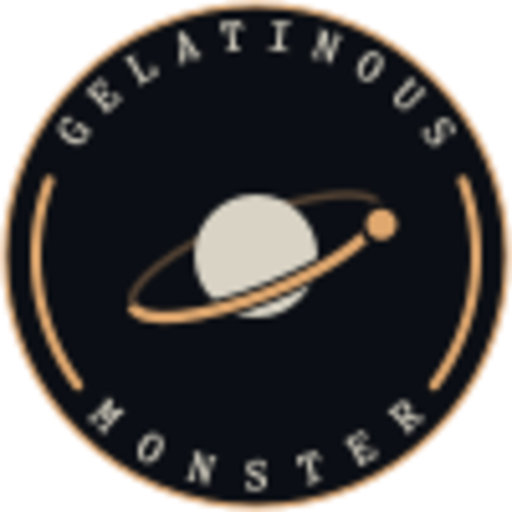
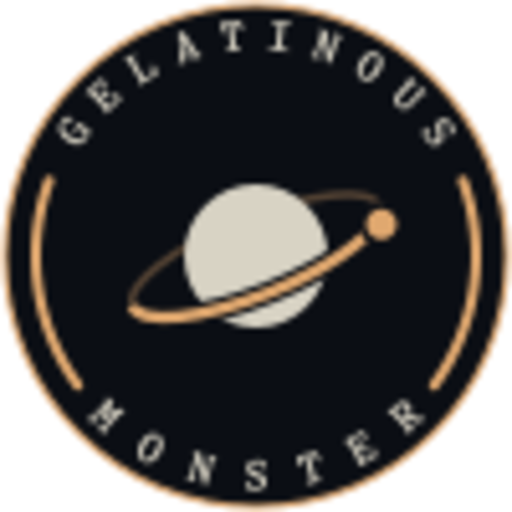
Reseat the ears and whiskers, and grow the planet (#1527)
The Stray tag was drawn for the previous mark, where the middle of the disc
was flat monogram text sitting on a knockout. A horizontal line through the
centre read fine there. The new mark puts the ring in exactly that band, so
the whiskers ran straight through it and the two fought.

Whiskers now sit below the ring, where a cat's actually are, and they no
longer cross anything. Ears straddle the rim and break the silhouette
instead of tucking inside it — that is what makes them read as ears rather
than as small triangles pasted on the disc. They are also set apart rather
than meeting at the crown, because meeting there reads as a bow tie once
the mark is down at its 44px header size. Their tips run above the viewBox
deliberately; .brand-mark already allows overflow.

The body grows from r12 to r14. It was legible but timid against the ring,
and a larger body is also the cheapest legibility win at favicon sizes,
where the filled disc is the only thing carrying contrast. The ink underlay
on the near arc goes to 4.4 to keep the separation proportionate.

Rasters regenerated from the same definition, so header, favicon and forum
artwork stay in step.

Claude-Session: https://claude.ai/code/session_01NgnVtfMc6zzQWR2HQb9JGZ

Changed region(s): [[0.3438, 0.3438, 0.6562, 0.6562]]

diff --git a/web/templates/website/_menu_iframe.html b/web/templates/website/_menu_iframe.html
@@ -23,31 +23,35 @@ Removes the Forum link to prevent navigation loops and double headers.
           <g transform="rotate(-22)">
             <ellipse class="ring" rx="26" ry="7.6" fill="none" stroke-width="1.5" stroke-opacity="0.34"/>
           </g>
-          <circle class="body" r="12"/>
+          <circle class="body" r="14"/>
           <g transform="rotate(-22)" clip-path="url(#gm-near-if)">
-            <ellipse class="knock-stroke" rx="26" ry="7.6" fill="none" stroke-width="4.0"/>
+            <ellipse class="knock-stroke" rx="26" ry="7.6" fill="none" stroke-width="4.4"/>
             <ellipse class="ring" rx="26" ry="7.6" fill="none" stroke-width="2.3"/>
           </g>
           <circle class="knock" cx="24.5" cy="-6.2" r="4.4"/>
           <circle class="node" cx="24.5" cy="-6.2" r="3.0"/>
         </g>
         <g class="tag">
-          <!-- ears: uneven on purpose, and overlapping the ring rather than
-               tucked behind it — sprayed ON the sign, not drawn into it -->
-          <path d="M29 17 L34 2 L45 11 Z"/>
-          <path d="M71 16 L67 1 L56 10 Z"/>
-          <!-- whiskers, crossing the ring on both sides -->
-          <path d="M27 55 L5 50"/>
-          <path d="M26 60 L4 62"/>
-          <path d="M28 65 L8 72"/>
-          <path d="M73 55 L95 51"/>
-          <path d="M74 60 L96 62"/>
-          <path d="M72 65 L92 73"/>
+          <!-- Ears straddle the rim and break the silhouette — sprayed ON the
+               sign, not drawn into it. They sit apart rather than meeting at
+               the crown, which at 44px otherwise reads as a bow tie. The tips
+               run above the viewBox on purpose; .brand-mark allows overflow. -->
+          <path d="M 19,21 L 26,-8 L 42,6 Z"/>
+          <path d="M 81,20 L 75,-9 L 59,5 Z"/>
+          <!-- Whiskers sit BELOW the ring. On the old monogram mark they could
+               cross the middle harmlessly; the ring now occupies that band and
+               they fought it. -->
+          <path d="M 33,70 L 6,65"/>
+          <path d="M 33,75 L 4,79"/>
+          <path d="M 35,79 L 11,90"/>
+          <path d="M 67,70 L 94,65"/>
+          <path d="M 67,75 L 96,79"/>
+          <path d="M 65,79 L 89,90"/>
           <!-- a drip off the left ear, and overspray -->
-          <path class="drip" d="M33 4 L33 12"/>
-          <circle class="spatter" cx="26" cy="8" r="1.3"/>
-          <circle class="spatter" cx="80" cy="15" r="1"/>
-          <circle class="spatter" cx="12" cy="57" r="0.9"/>
+          <path class="drip" d="M 24,-3 L 24,6"/>
+          <circle class="spatter" cx="15" cy="3" r="1.5"/>
+          <circle class="spatter" cx="87" cy="-3" r="1.2"/>
+          <circle class="spatter" cx="8" cy="70" r="1.1"/>
         </g>
       </svg>
       <div class="media-body">

diff --git a/web/templates/website/_menu.html b/web/templates/website/_menu.html
@@ -25,31 +25,35 @@ folder and edit it to add/remove links to the menu.
           <g transform="rotate(-22)">
             <ellipse class="ring" rx="26" ry="7.6" fill="none" stroke-width="1.5" stroke-opacity="0.34"/>
           </g>
-          <circle class="body" r="12"/>
+          <circle class="body" r="14"/>
           <g transform="rotate(-22)" clip-path="url(#gm-near)">
-            <ellipse class="knock-stroke" rx="26" ry="7.6" fill="none" stroke-width="4.0"/>
+            <ellipse class="knock-stroke" rx="26" ry="7.6" fill="none" stroke-width="4.4"/>
             <ellipse class="ring" rx="26" ry="7.6" fill="none" stroke-width="2.3"/>
           </g>
           <circle class="knock" cx="24.5" cy="-6.2" r="4.4"/>
           <circle class="node" cx="24.5" cy="-6.2" r="3.0"/>
         </g>
         <g class="tag">
-          <!-- ears: uneven on purpose, and overlapping the ring rather than
-               tucked behind it — sprayed ON the sign, not drawn into it -->
-          <path d="M29 17 L34 2 L45 11 Z"/>
-          <path d="M71 16 L67 1 L56 10 Z"/>
-          <!-- whiskers, crossing the ring on both sides -->
-          <path d="M27 55 L5 50"/>
-          <path d="M26 60 L4 62"/>
-          <path d="M28 65 L8 72"/>
-          <path d="M73 55 L95 51"/>
-          <path d="M74 60 L96 62"/>
-          <path d="M72 65 L92 73"/>
+          <!-- Ears straddle the rim and break the silhouette — sprayed ON the
+               sign, not drawn into it. They sit apart rather than meeting at
+               the crown, which at 44px otherwise reads as a bow tie. The tips
+               run above the viewBox on purpose; .brand-mark allows overflow. -->
+          <path d="M 19,21 L 26,-8 L 42,6 Z"/>
+          <path d="M 81,20 L 75,-9 L 59,5 Z"/>
+          <!-- Whiskers sit BELOW the ring. On the old monogram mark they could
+               cross the middle harmlessly; the ring now occupies that band and
+               they fought it. -->
+          <path d="M 33,70 L 6,65"/>
+          <path d="M 33,75 L 4,79"/>
+          <path d="M 35,79 L 11,90"/>
+          <path d="M 67,70 L 94,65"/>
+          <path d="M 67,75 L 96,79"/>
+          <path d="M 65,79 L 89,90"/>
           <!-- a drip off the left ear, and overspray -->
-          <path class="drip" d="M33 4 L33 12"/>
-          <circle class="spatter" cx="26" cy="8" r="1.3"/>
-          <circle class="spatter" cx="80" cy="15" r="1"/>
-          <circle class="spatter" cx="12" cy="57" r="0.9"/>
+          <path class="drip" d="M 24,-3 L 24,6"/>
+          <circle class="spatter" cx="15" cy="3" r="1.5"/>
+          <circle class="spatter" cx="87" cy="-3" r="1.2"/>
+          <circle class="spatter" cx="8" cy="70" r="1.1"/>
         </g>
       </svg>
       <div class="media-body">

diff --git a/scripts/brand/build_brand.py b/scripts/brand/build_brand.py
@@ -59,9 +59,9 @@ def device(flat):
       <ellipse class="ring" rx="26" ry="7.6" fill="none" stroke="{accent}"
                stroke-width="1.5" stroke-opacity="0.34"/>
     </g>
-    <circle class="body" r="12" fill="{body}"/>
+    <circle class="body" r="14" fill="{body}"/>
     <g transform="rotate({CANT})" clip-path="url(#gm-near)">
-      <ellipse class="knock" rx="26" ry="7.6" fill="none" stroke="{ink}" stroke-width="4.0"/>
+      <ellipse class="knock" rx="26" ry="7.6" fill="none" stroke="{ink}" stroke-width="4.4"/>
       <ellipse class="ring" rx="26" ry="7.6" fill="none" stroke="{accent}" stroke-width="2.3"/>
     </g>
     <circle class="knock" cx="24.5" cy="-6.2" r="4.4" fill="{ink}"/>
